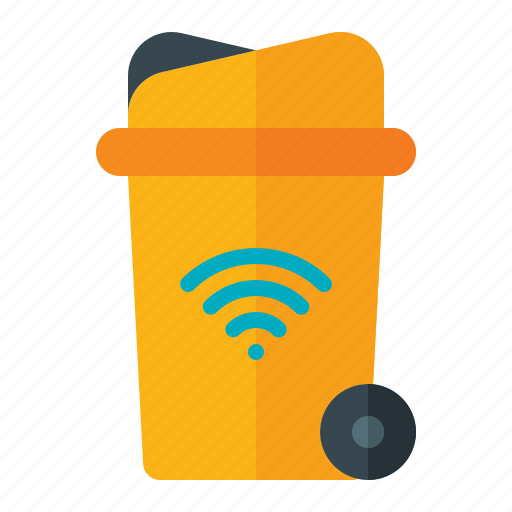
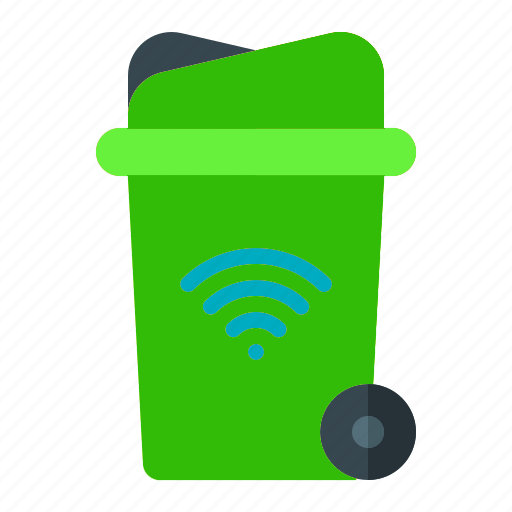
salem

diff --git a/lib/login.dart b/lib/login.dart
@@ -11,18 +11,16 @@ class Login_SWS extends StatefulWidget {
 
 class _Login_SWSState extends State<Login_SWS> {
   Authentication _authentication = Authentication();
-
   TextEditingController emailcontroller = TextEditingController();
-
   TextEditingController passwordcontroller = TextEditingController();
-  
   bool ispassword =true;
-
-
   IconData icon = Icons.remove_red_eye;
+  var FormKey = GlobalKey<FormState>();
+
   @override
-  void initState() {
+  void initState()  {
     super.initState();
+
   }
 
   @override
@@ -37,94 +35,100 @@ class _Login_SWSState extends State<Login_SWS> {
       body: Padding(
         padding: const EdgeInsets.all(12.0),
         child: SingleChildScrollView(
-          child: Column(
-            mainAxisAlignment: MainAxisAlignment.start,
-            crossAxisAlignment: CrossAxisAlignment.start,
-            children: [
-              SizedBox(height: 70.0,),
-              Text(
-                'Login',
-                style: TextStyle(
-                    fontWeight: FontWeight.bold,
-                    fontSize: 35.0
-                ),
-              ),
-              SizedBox(height: 35.0,),
-              Text(
-                'Use your work ID and your National ID to log in',
-                style: TextStyle(
-                  fontWeight: FontWeight.bold,
-                ),
-              ),
-              SizedBox(height: 50.0,),
-              TextFormField(
-                decoration: InputDecoration(
-                  labelText: 'Work Email',
-                  prefixIcon: Icon(Icons.email),
-                  border: OutlineInputBorder(),
-                ),
-                keyboardType: TextInputType.emailAddress,
-                controller: emailcontroller,
-                validator: (value) {
-                  if(value!.isEmpty){
-                   return 'email can not be empty';
-                  }
-                },
-              ),
-              SizedBox(height: 15.0,),
-              TextFormField(
-                decoration: InputDecoration(
-                  labelText: 'Password',
-                  prefixIcon: Icon(Icons.lock),
-                  suffixIcon: IconButton(
-                      onPressed: () {
-                        setState(() {
-                          ispassword = !ispassword;
-                          icon = ispassword ? Icons.remove_red_eye : Icons
-                              .visibility_off;
-                        });
-                      },
-                    icon: Icon(icon),
+          child: Form(
+            key: FormKey,
+            child: Column(
+              mainAxisAlignment: MainAxisAlignment.start,
+              crossAxisAlignment: CrossAxisAlignment.start,
+              children: [
+                SizedBox(height: 70.0,),
+                Text(
+                  'Login',
+                  style: TextStyle(
+                      fontWeight: FontWeight.bold,
+                      fontSize: 35.0
                   ),
-                  border: OutlineInputBorder(),
                 ),
-                validator: (value){
-                  if(value!.isEmpty){
-                    return 'password cannot be empty';
-                  }
-                },
-                keyboardType: TextInputType.visiblePassword,
-                controller: passwordcontroller,
-              ),
-              SizedBox(height: 40.0,),
-              Container(
-                width: double.infinity,
-                decoration: BoxDecoration(
-                  borderRadius: BorderRadius.circular(10.0),
-                  color: Colors.teal,
+                SizedBox(height: 35.0,),
+                Text(
+                  'Use your work email and your password to log in',
+                  style: TextStyle(
+                    fontWeight: FontWeight.bold,
+                  ),
                 ),
-                child: MaterialButton(
-                  onPressed: ()async{
-                    if( await signin() ==null){
-                      print('something went wrong');
-                    }else{
-                      emailcontroller.clear();
-                      passwordcontroller.clear();
-                      print('login successed');
-                      Navigator.push(context, MaterialPageRoute(builder: (context)=>StaffHome()));
+                SizedBox(height: 50.0,),
+                TextFormField(
+                  decoration: InputDecoration(
+                    labelText: 'Work Email',
+                    prefixIcon: Icon(Icons.email),
+                    border: OutlineInputBorder(),
+                  ),
+                  keyboardType: TextInputType.emailAddress,
+                  controller: emailcontroller,
+                  validator: (value) {
+                    if(value!.isEmpty){
+                     return 'email can not be empty';
                     }
                   },
-                  child: Text(
-                    'Login',
-                    style: TextStyle(
-                        color: Colors.white,
-                        fontWeight: FontWeight.bold,
-                        fontSize: 16.0
+                ),
+                SizedBox(height: 15.0,),
+                TextFormField(
+                  decoration: InputDecoration(
+                    labelText: 'Password',
+                    prefixIcon: Icon(Icons.lock),
+                    suffixIcon: IconButton(
+                        onPressed: () {
+                          setState(() {
+                            ispassword = !ispassword;
+                            icon = ispassword ? Icons.remove_red_eye : Icons
+                                .visibility_off;
+                          });
+                        },
+                      icon: Icon(icon),
+                    ),
+                    border: OutlineInputBorder(),
+                  ),
+                  validator: (value){
+                    if(value!.isEmpty){
+                      return 'password cannot be empty';
+                    }
+                  },
+                  keyboardType: TextInputType.visiblePassword,
+                  controller: passwordcontroller,
+                  obscureText: ispassword,
+                ),
+                SizedBox(height: 40.0,),
+                Container(
+                  width: double.infinity,
+                  decoration: BoxDecoration(
+                    borderRadius: BorderRadius.circular(10.0),
+                    color: Colors.teal,
+                  ),
+                  child: MaterialButton(
+                    onPressed: ()async{
+                      if(FormKey.currentState!.validate()){
+                      if( await signin() ==null){
+                        print('something went wrong');
+                      }else{
+                        emailcontroller.clear();
+                        passwordcontroller.clear();
+                        print('login successed');
+                        Navigator.push(context, MaterialPageRoute(builder: (context)=>StaffHome()));
+                      }
+                    }
+                      },
+                    child: Text(
+                      'Login',
+                      style: TextStyle(
+                          color: Colors.white,
+                          fontWeight: FontWeight.bold,
+                          fontSize: 16.0
+                      ),
                     ),
                   ),
-                ),
-              )
-            ],
+                )
+              ],
+            ),
           ),
         ),
       ),
@@ -137,4 +141,5 @@ class _Login_SWSState extends State<Login_SWS> {
     print(authresult.toString());
     return authresult;
   }
+
 }

diff --git a/lib/main.dart b/lib/main.dart
@@ -28,7 +28,7 @@ class MyApp extends StatelessWidget {
             children: [
               Image(
                 fit: BoxFit.fill,
-                image: AssetImage('images/Bin1.png'),
+                image: AssetImage('images/Bin0.png'),
                 width: 300,
                 height: 300,
               ),
